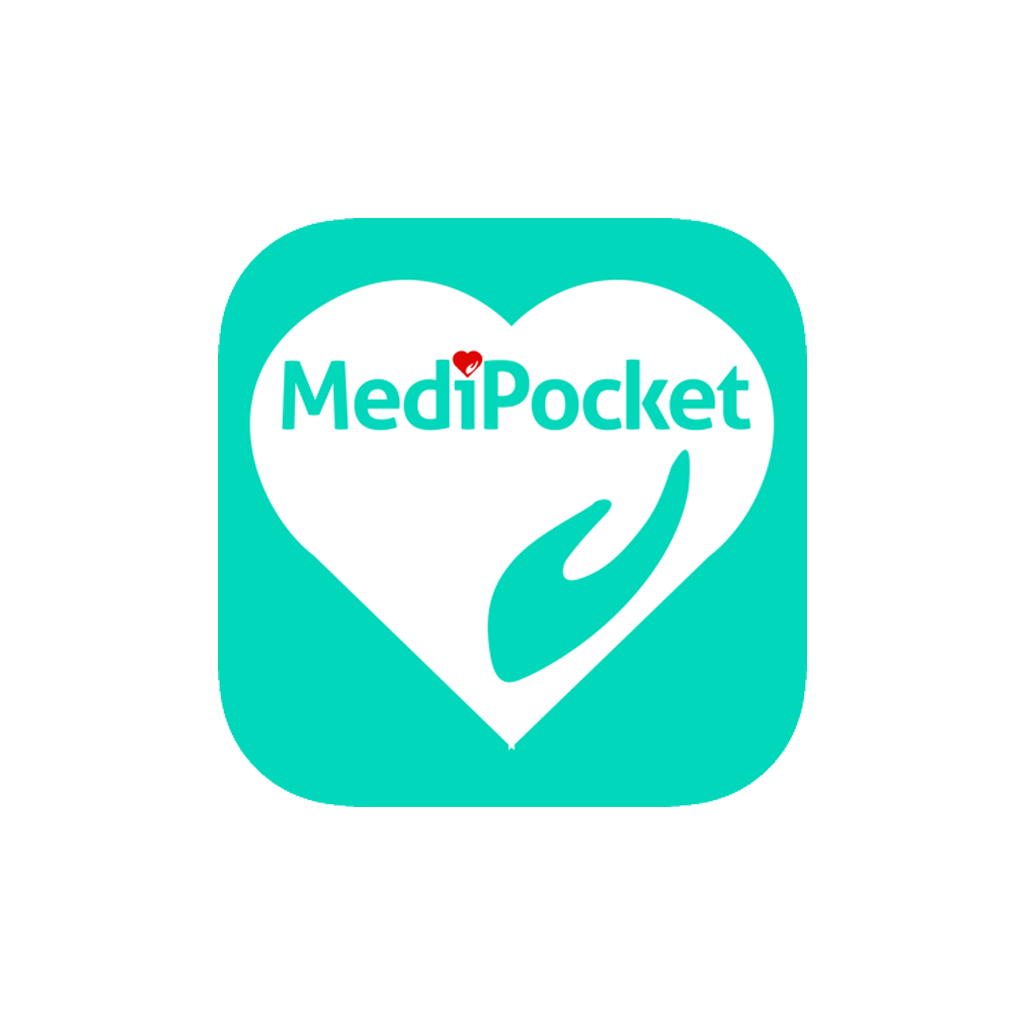
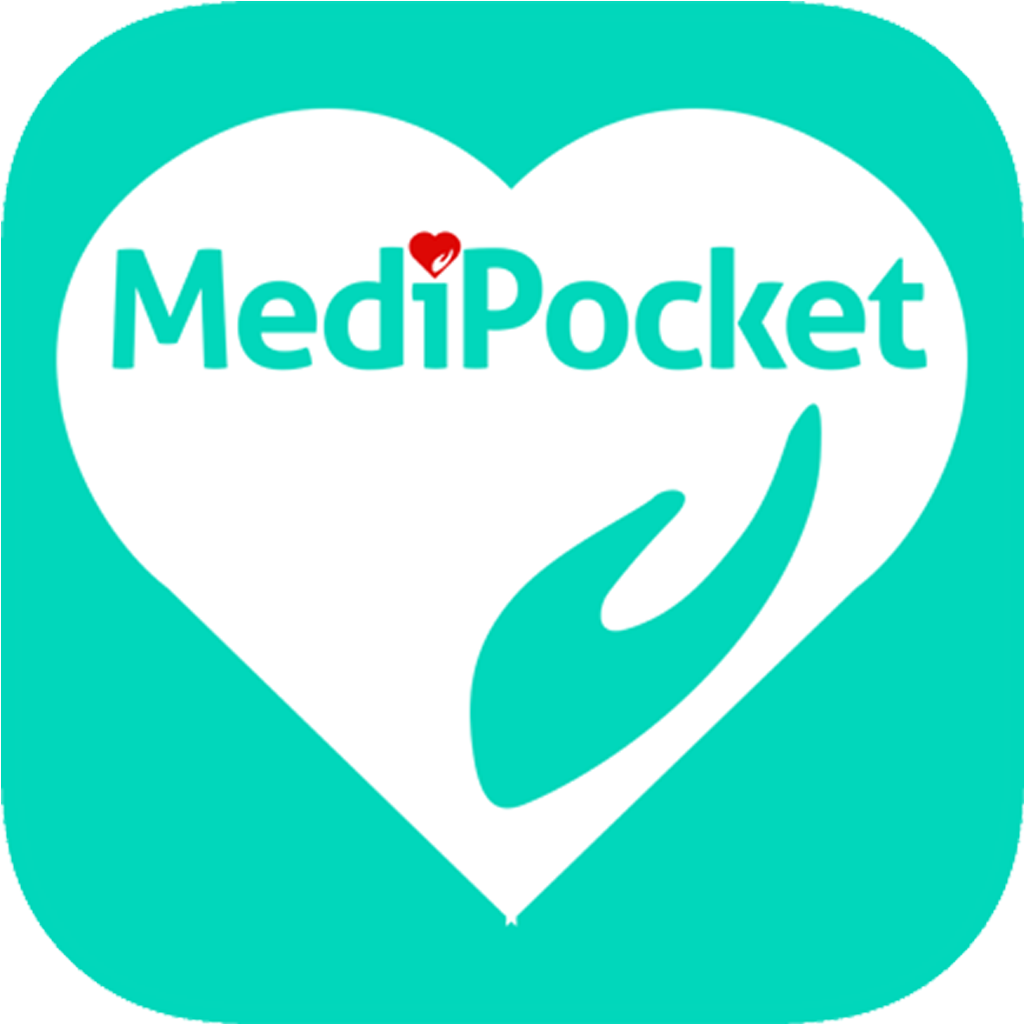
rami updates done 16 Apr 2022

diff --git a/doctor/screens/Models/PayCardsModel.js b/doctor/screens/Models/PayCardsModel.js
@@ -41,7 +41,9 @@ const PayCardsModel = (props) => {
   // data
   const [isSelected, setSelected] = useState(false);
   const [modalVisible, setModalVisible] = useState(false);
+  const [modalVisible2, setModalVisible2] = useState(false);
   const [success, setSuccess] = useState(false);
+  const [failed, setFailed] = useState(false);
   const [validCard, setValidCard] = useState(false);
   //   Error data
   const [isSelectedError, setSelectedError] = useState(false);
@@ -145,18 +147,22 @@ const PayCardsModel = (props) => {
   }, []);
 
   const handlePayment = async () => {
-    const { error } = await confirmPayment(key, {
-      type: "Card",
-      billingDetails: {
-        email: userD.email,
-      },
-    });
+    try {
+      const { error } = await confirmPayment(key, {
+        type: "Card",
+        billingDetails: {
+          email: userD.email,
+        },
+      });
 
-    if (error) {
-      Alert.alert("Error : ", error);
-    } else {
-      setModalVisible(true);
-      setSuccess(true);
+      if (error) {
+        Alert.alert("Error : ", error);
+      } else {
+        setModalVisible(true);
+        setSuccess(true);
+      }
+    } catch (err) {
+      setFailed(true);
     }
   };
 
@@ -218,36 +224,14 @@ const PayCardsModel = (props) => {
       {/* Pay */}
       {validCard && isSelected ? (
         <TouchableOpacity style={styles.button1} onPress={handlePayment}>
-          <Text style={styles.signup}>Pay {pay}$</Text>
+          <Text style={styles.signup}>Pay {pay}</Text>
         </TouchableOpacity>
       ) : (
         <TouchableOpacity style={styles.button1} disabled={true}>
-          <Text style={styles.signup5}>Pay {pay}$</Text>
+          <Text style={styles.signup5}>Pay {pay}</Text>
         </TouchableOpacity>
       )}
-      {!success ? (
-        <Modal
-          animationType="slide"
-          transparent={true}
-          visible={modalVisible}
-          onRequestClose={() => {
-            Alert.alert("Modal has been closed.");
-            setModalVisible(!modalVisible);
-          }}
-        >
-          <View style={styles.centeredView}>
-            <View style={styles.modalView}>
-              <Text style={styles.modalText}>Hello World!</Text>
-              <Pressable
-                style={[styles.button, styles.buttonClose]}
-                onPress={() => setModalVisible(!modalVisible)}
-              >
-                <Text style={styles.textStyle}>Hide Modal</Text>
-              </Pressable>
-            </View>
-          </View>
-        </Modal>
-      ) : (
+      {success && (
         <Modal
           animationType="slide"
           transparent={true}
@@ -286,6 +270,36 @@ const PayCardsModel = (props) => {
                 }}
               >
                 <Text style={styles.textStyle}>Patient Intake Form</Text>
+              </Pressable>
+            </View>
+          </View>
+        </Modal>
+      )}
+      {failed && (
+        <Modal
+          animationType="slide"
+          transparent={true}
+          visible={modalVisible2}
+          onRequestClose={() => {
+            Alert.alert("Modal has been closed.");
+            setModalVisible2(!modalVisible2);
+          }}
+        >
+          <View style={styles.centeredView}>
+            <View style={styles.modalView}>
+              <View style={styles.ModelTitleView}>
+                <Text style={styles.titleModal}>Something went wrong!</Text>
+              </View>
+              <Text style={styles.titleModal}>Note!</Text>
+              <Text style={styles.modalText}>Please try again later</Text>
+              <Pressable
+                style={styles.signup2}
+                onPress={() => {
+                  setModalVisible2(!modalVisible2);
+                  navigation.navigate("home");
+                }}
+              >
+                <Text style={styles.textStyle}>Back home</Text>
               </Pressable>
             </View>
           </View>

diff --git a/doctor/screens/Register.js b/doctor/screens/Register.js
@@ -52,9 +52,9 @@ const REGISTER_QUERY = gql`
 `;
 
 const Register = ({ navigation }) => {
-  console.log("Property Register Screen");
+  // console.log("Property Register Screen");
   const { currentUser, signUpSuccess, token, errors } = useSelector(mapState);
-  console.log("mapState =>", currentUser, signUpSuccess, token, errors);
+  // console.log("mapState =>", currentUser, signUpSuccess, token, errors);
   const dispatch = useDispatch();
   dispatch(ResetErrorsState);
   const [SignUp, { data, loading }] = useMutation(REGISTER_QUERY);
@@ -167,6 +167,7 @@ const Register = ({ navigation }) => {
             user,
             res.data.register.errors?.password
           );
+          console.log("Response Error:", user, res.data.register);
           setGraphError1(
             res.data.register?.errors?.username
               ? res.data.register?.errors?.username[0]?.message

diff --git a/doctor/screens/Home.js b/doctor/screens/Home.js
@@ -79,7 +79,7 @@ const CustomDrawerContent = ({ navigation }) => {
         <View style={styles.profileStyle}>
           <Image
             style={styles.imgStyle}
-            source={images.logo}
+            source={{ uri: "https://firebasestorage.googleapis.com/v0/b/medipocket2022.appspot.com/o/assets%2Flogo.png?alt=media&token=fc05e438-598e-47ea-8858-9bc564f5f989" }}
             resizeMode="contain"
           />
         </View>
@@ -221,8 +221,7 @@ const styles = StyleSheet.create({
   imgStyle: {
     // backgroundColor: "red",
     width: 100,
-    // height: 80,
-    // borderRadius: 50,
+    height: 80,
   },
   textStyle: {
     color: "white",

diff --git a/doctor/screens/Models/Header.js b/doctor/screens/Models/Header.js
@@ -41,7 +41,9 @@ const Header = (props) => {
       >
         <Image
           style={styles.imgStyle}
-          source={images.logo}
+          source={{
+            uri: "https://firebasestorage.googleapis.com/v0/b/medipocket2022.appspot.com/o/assets%2Flogo.png?alt=media&token=fc05e438-598e-47ea-8858-9bc564f5f989",
+          }}
           resizeMode="contain"
         />
       </TouchableOpacity>
@@ -82,9 +84,12 @@ const styles = StyleSheet.create({
     alignItems: "center",
   },
   icon_style: {
+    width: 35,
+    height: 35,
     marginRight: 10,
   },
   imgStyle: {
     width: 100,
+    height: 80,
   },
 });

diff --git a/doctor/screens/Main/SymthomScreens/Result.js b/doctor/screens/Main/SymthomScreens/Result.js
@@ -275,7 +275,7 @@ const Result = ({ route, navigation }) => {
           >
             <Image
               style={styles.imgStyle}
-              source={images.logo}
+              source={{ uri: "https://firebasestorage.googleapis.com/v0/b/medipocket2022.appspot.com/o/assets%2Flogo.png?alt=media&token=fc05e438-598e-47ea-8858-9bc564f5f989" }}
               resizeMode="contain"
             />
           </TouchableOpacity>
@@ -615,7 +615,8 @@ const styles = StyleSheet.create({
     height: 30,
   },
   imgStyle: {
-    width: 60,
+    width: 80,
+    height: 80,
   },
   headerSub: {
     flexDirection: "row",

diff --git a/doctor/screens/Login.js b/doctor/screens/Login.js
@@ -46,8 +46,8 @@ const Login = ({ navigation }) => {
   dispatch(ResetErrorsState);
   const [SignIn, { data, loading }] = useMutation(REGISTER_QUERY);
 
-  const [email, onChangeEmail] = useState("kunalkdas@outlook.com");
-  const [password, onChangepassword] = useState("Kepler@2209");
+  const [email, onChangeEmail] = useState("");
+  const [password, onChangepassword] = useState("");
   const [emailErrors, setEmailErrors] = useState("");
   const [passwordErrors, setPasswordErrors] = useState("");
   const [isSecure, setIsSecure] = useState(true);

diff --git a/doctor/screens/Models/PayTimeModel.js b/doctor/screens/Models/PayTimeModel.js
@@ -16,7 +16,7 @@ const PayTimeModel = (props) => {
           >
             Total Payable
           </Text>
-          <Text style={[styles.boxNb, { color: "#f9b664" }]}>{pay}$</Text>
+          <Text style={[styles.boxNb, { color: "#f9b664" }]}>{pay}</Text>
         </View>
       </View>
       {/* <View style={styles.boxContainer}>

diff --git a/doctor/screens/Main/DoctorScreens/DoctorsList.js b/doctor/screens/Main/DoctorScreens/DoctorsList.js
@@ -509,6 +509,8 @@ const styles = StyleSheet.create({
     flexWrap: "wrap",
   },
   specContainer: {
+    backgroundColor: COLORS.bgColor1,
+    // backgroundColor: "red",
     margin: 10,
     marginTop: 20,
     width: "100%",
